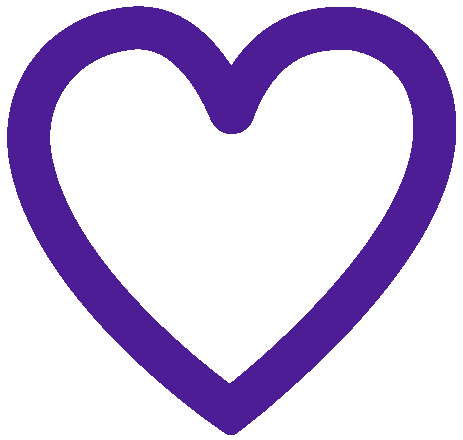
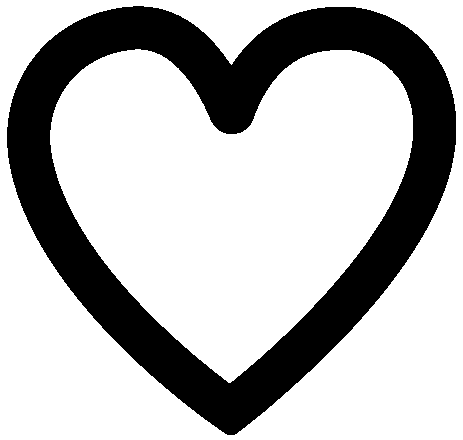
ui change into dark mode

Changed region(s): [[0.0, 0.0, 0.9978, 1.0]]

diff --git a/src/component/header/header.jsx b/src/component/header/header.jsx
@@ -4,7 +4,7 @@ import { Link, useNavigate } from 'react-router-dom'
 import {useSelector} from 'react-redux'
 import  {Logoutbtn}  from '../index';
 import SearchIcon from '@mui/icons-material/Search';
-import cart from "../images/cart.png"
+import cart from "../images/cart1.png"
 import wish from "../images/whishlist1.png"
 import { toast } from 'react-toastify';
 import axios from 'axios';
@@ -95,39 +95,39 @@ function header() {
         
         <div className='w-full py-2 sm:pt-4 pt-1 pl-3 bg-gray-100 flex'>
             
-        <Link to="/"><img src={img}  alt="logo" className='sm:mr-36 mr-24 sm:ml-6 ml-2 sm:mt-4 mt-4 sm:mb-3 mb-2 sm:w-36 w-24'/></Link>
+        <Link to="/"><img src={img}  alt="logo" className='sm:mr-36 mr-24 sm:ml-6 ml-2 sm:mt-4 mt-4 sm:mb-3 mb-2 sm:w-36 w-28'/></Link>
             
-            <input type='text' placeholder='Search here something' onKeyPress={handleKeyPress} value={value} onChange={(e) => setValue(e.target.value)} className='sm:block hidden sm:p-1 p-0 mt-3 sm:w-80 w-24 sm:h-10 h-9 border outline-none sm:pl-3 pl-1 focus:outline-none focus:ring-2 focus:ring-violet-900 focus:border-violet-900'/>
-            <div className='sm:block hidden border h-10 mt-3 border-violet-900'></div>
+            <input type='text' placeholder='Search here something' onKeyPress={handleKeyPress} value={value} onChange={(e) => setValue(e.target.value)} className='sm:block hidden sm:p-1 p-0 mt-3 sm:w-80 w-24 sm:h-10 h-9 border outline-none sm:pl-3 pl-1 focus:outline-none focus:ring-2 focus:ring-black focus:border-black'/>
+            <div className='sm:block hidden border h-10 mt-3 border-black'></div>
             <select
                 id="age-select"
                 value={age}
                 onChange={handleChange}
                 onKeyPress={handleKeyPress}
-                className="sm:block hidden sm:w-auto w-20 h-10 mt-3 border border-gray-300 bg-white py-2 px-3 focus:outline-none focus:ring-2 focus:ring-violet-900 focus:border-violet-900"
+                className="sm:block hidden sm:w-auto w-20 h-10 mt-3 border border-gray-300 bg-white py-2 px-3 focus:outline-none focus:ring-2 focus:ring-black focus:border-black"
             >
-            <option className='text-violet-900' value="">Browse by Category</option>
-            <option className='text-violet-900' value="boards">Arduino Boards</option>
-            <option className='text-violet-900' value="sensors">Sensors</option>
-            <option className='text-violet-900' value="motors">Dc motors</option>
-            <option className='text-violet-900' value="speakers">Buzzers & Speakers</option>
-            <option className='text-violet-900' value="batteries">Batteries</option>
-            <option className='text-violet-900' value="chargers">Chargers</option>
-            <option className='text-violet-900' value="bluthooth">Bluetooth module</option>
-            <option className='text-violet-900' value="capacitors">Capacitors & Transistors</option>
-            <option className='text-violet-900' value="led">LED's</option>
-            <option className='text-violet-900' value="drones">Drones</option>
-            <option className='text-violet-900' value="cars">Rc cars</option>
-            <option className='text-violet-900' value="other">other's</option>
+            <option className='text-black' value="">Browse by Category</option>
+            <option className='text-black' value="boards">Arduino Boards</option>
+            <option className='text-black' value="sensors">Sensors</option>
+            <option className='text-black' value="motors">Dc motors</option>
+            <option className='text-black' value="speakers">Buzzers & Speakers</option>
+            <option className='text-black' value="batteries">Batteries</option>
+            <option className='text-black' value="chargers">Chargers</option>
+            <option className='text-black' value="bluthooth">Bluetooth module</option>
+            <option className='text-black' value="capacitors">Capacitors & Transistors</option>
+            <option className='text-black' value="led">LED's</option>
+            <option className='text-black' value="drones">Drones</option>
+            <option className='text-black' value="cars">Rc cars</option>
+            <option className='text-black' value="other">other's</option>
             </select>
         
-            <button onClick={addtodo} className='mt-3 bg-violet-900 sm:inline-block hidden duration-200 w-11 h-10 rounded-tr-md rounded-br-md '><SearchIcon fontSize="large" color="primary" style={{ padding: '1px', color: 'white' }}/></button>
+            <button onClick={addtodo} className='mt-3 bg-black sm:inline-block hidden duration-200 w-11 h-10 rounded-tr-md rounded-br-md '><SearchIcon fontSize="large" color="primary" style={{ padding: '1px', color: 'white' }}/></button>
             
 
             <ul className='flex ml-auto'>
                     {active && <li  className='sm:flex hidden'>
                         <button onClick={() => navigate("/wishlist")}
-                        className='fancy-underline inline-block sm:mx-8 mx-1 mt-1 sm:px-6 px-3 sm:py-2 py-1 text-violet-900 font-medium sm:text-lg text-base duration-200 rounded-full'
+                        className='fancy-underline inline-block sm:mx-8 mx-1 mt-1 sm:px-6 px-3 sm:py-2 py-1 text-black font-medium sm:text-lg text-base duration-200 rounded-full'
                         >
                             Wishlist
                         </button>
@@ -147,18 +147,18 @@ function header() {
             {active && (
                 <>
                     <li className='sm:mr-0 mr-3 '>
-                        <div className=' absolute z-20 text-red-600 sm:ml-[93px] ml-[25px] sm:mt-1 mt-0 sm:text-xl text-lg'>{post?.length}</div>
+                        <div className=' absolute z-20 text-green-600 sm:ml-[93px] ml-[25px] sm:mt-1 mt-0 sm:text-xl text-lg'>{post?.length}</div>
                         <div className='absolute z-10 text-red-600 rounded-full sm:w-7 w-5 sm:h-7 h-5 border bg-white sm:ml-[85px] ml-[21px] sm:mt-1 mt-1'></div>
                         <button  onClick={() => navigate("/cart")}
-                        className=' fancy-underline inline-block sm:mx-10 mx-1 sm:mr-20 mr-2 sm:mt-2 mt-1 sm:px-6  py-2 text-blue-600  duration-200 rounded-2xl sm:w-auto w-6'
+                        className=' fancy-underline inline-block sm:mx-10 mx-1 sm:mr-20 mr-2 sm:mt-2 mt-1 sm:px-6  py-2 text-blue-600  duration-200 rounded-2xl sm:w-auto w-10'
                         >
-                            <img src={cart} className='sm:w-8 '/>
+                            <img src={cart} className='sm:w-10 '/>
                         </button>
                     </li>
                     <div className='sm:mr-14 mr-0 text-base sm:ml-4 ml-2'> 
-                      {userData && (<p className='sm:flex hidden text-red-500 font-medium sm:text-lg text-sm'>Hey {userData?.fullName}</p>)}
+                      {userData && (<p className='sm:flex hidden text-green-500 font-medium sm:text-lg text-sm'>Hey {userData?.fullName}</p>)}
                       <div className="dropdown">
-                        <button className="sm:flex hidden dropbtn text-violet-900 font-semibold">My account&nbsp;&#717;&nbsp;&nbsp;&nbsp;&nbsp;&nbsp;&nbsp;&nbsp;&nbsp;&nbsp;&nbsp;&nbsp;&nbsp;</button>
+                        <button className="sm:flex hidden dropbtn text-black font-semibold">My account&nbsp;&#717;&nbsp;&nbsp;&nbsp;&nbsp;&nbsp;&nbsp;&nbsp;&nbsp;&nbsp;&nbsp;&nbsp;&nbsp;</button>
                         <button className="sm:hidden sm:mr-auto mr-5 flex dropbtn text-violet-900 font-semibold">My account&nbsp;&#717;</button>
                         <div className="dropdown-content sm:w-auto ">
                           <Link to="/orderpage" className='sm:text-base text-sm'>My orders</Link>
@@ -177,31 +177,31 @@ function header() {
         </div>
         <div className='h-auto sm:hidden  flex'>
             <div className='flex mx-auto py-2'>
-            <input type='text' placeholder='Search here something' onKeyPress={handleKeyPress} value={value} onChange={(e) => setValue(e.target.value)} className='p-0 w-36 h-9 border outline-none pl-1 focus:outline-none focus:ring-2 focus:ring-violet-900 focus:border-violet-900'/>
-            <div className='border h-9 border-violet-900'></div>
+            <input type='text' placeholder='Search here something' onKeyPress={handleKeyPress} value={value} onChange={(e) => setValue(e.target.value)} className='p-0 w-36 h-9 border outline-none pl-1 focus:outline-none focus:ring-2 focus:ring-black focus:border-black'/>
+            <div className='border h-9 border-black'></div>
             <select
                 id="age-select"
                 value={age}
                 onChange={handleChange}
                 onKeyPress={handleKeyPress}
-                className="block w-28 h-9 border border-gray-300 bg-white py-2 px-1 focus:outline-none focus:ring-2 focus:ring-violet-900 focus:border-violet-900"
+                className="block w-28 h-9 border border-gray-300 bg-white py-2 px-1 focus:outline-none focus:ring-2 focus:ring-black focus:border-black"
             >
-            <option className='text-violet-900' value="">Browse by Category</option>
-            <option className='text-violet-900' value="boards">Arduino Boards</option>
-            <option className='text-violet-900' value="sensors">Sensors</option>
-            <option className='text-violet-900' value="motors">Dc motors</option>
-            <option className='text-violet-900' value="speakers">Buzzers & Speakers</option>
-            <option className='text-violet-900' value="batteries">Batteries</option>
-            <option className='text-violet-900' value="chargers">Chargers</option>
-            <option className='text-violet-900' value="bluthooth">Bluetooth module</option>
-            <option className='text-violet-900' value="capacitors">Capacitors & Transistors</option>
-            <option className='text-violet-900' value="led">LED's</option>
-            <option className='text-violet-900' value="drones">Drones</option>
-            <option className='text-violet-900' value="cars">Rc cars</option>
-            <option className='text-violet-900' value="other">other's</option>
+            <option className='text-black' value="">Browse by Category</option>
+            <option className='text-black' value="boards">Arduino Boards</option>
+            <option className='text-black' value="sensors">Sensors</option>
+            <option className='text-black' value="motors">Dc motors</option>
+            <option className='text-black' value="speakers">Buzzers & Speakers</option>
+            <option className='text-black' value="batteries">Batteries</option>
+            <option className='text-black' value="chargers">Chargers</option>
+            <option className='text-black' value="bluthooth">Bluetooth module</option>
+            <option className='text-black' value="capacitors">Capacitors & Transistors</option>
+            <option className='text-black' value="led">LED's</option>
+            <option className='text-black' value="drones">Drones</option>
+            <option className='text-black' value="cars">Rc cars</option>
+            <option className='text-black' value="other">other's</option>
             </select>
         
-            <button onClick={addtodo} className='bg-violet-900 inline-block duration-200 w-9 h-9 rounded-tr-md rounded-br-md '><SearchIcon fontSize="medium" color="primary" style={{ padding: '1px', color: 'white' }}/></button>
+            <button onClick={addtodo} className='bg-black inline-block duration-200 w-9 h-9 rounded-tr-md rounded-br-md '><SearchIcon fontSize="medium" color="primary" style={{ padding: '1px', color: 'white' }}/></button>
             </div>
         </div>
     </>

diff --git a/src/component/postcard.jsx b/src/component/postcard.jsx
@@ -10,6 +10,8 @@ import axios from 'axios';
 import conf from "./conf/conf";
 import imgcart from "./images/cart.png"
 
+import cart from "./images/cart1.png"
+
 
 function postcard({ _id, title, image, price, description}) {
   // console.log(image);
@@ -95,19 +97,20 @@ function postcard({ _id, title, image, price, description}) {
   }
 
   return (
-      <div className='w-full bg-white sm:rounded-md rounded-none sm:p-4 p-0 border'>
-        <button className='sm:ml-60 ml-[140px] mt-4' onClick={() => wish()}><img src={like? img1 : img} className='w-5'/></button>
+      <div className='w-full bg-white sm:rounded-md rounded-none sm:p-4 p-0 border sm:mt-0 mt-4'>
+        <button className='sm:ml-60 ml-[140px] my-1' onClick={() => wish()}><img src={like? img1 : img} className='w-5'/></button>
         <Link to={`/post/${_id}`}>
-        <div id='postcard' className='w-full justify-center mb-7 overflow-hidden sm:max-h-56 max-h-36'>
-          <img src={image[images]} onMouseOver={() => handleMouseover()} onMouseOut={() => handleMouseout()} alt={title} className='rounded-lg w-full sm:h-56 h-36'></img>
+        <div id='postcard' className='w-full justify-center mb-7 overflow-hidden sm:max-h-56 max-h-36 '>
+          <img src={image[images]} onMouseOver={() => handleMouseover()} onMouseOut={() => handleMouseout()} alt={title} className='rounded-lg sm:h-48 h-36  mx-auto mt-4'></img>
         </div>
-        <h2 className='sm:text-xl text-base sm:px-0 px-2 text-red-600 mb-2 font-semibold'>{title.length > 25? (<span>{title.slice(0, 25)}...</span>) : (<span>{title}</span>)}</h2>
-        <h2 className='mb-2 sm:flex hidden'>{description.length > 25? (<span>{description.slice(0, 28)}...</span>) : (<span>{description}</span>)}</h2>
-        <h2 className='text-xl font-semibold sm:px-0 px-2'>₹ {price}</h2>
+        <h2 className='sm:text-lg text-base sm:px-0 px-2 text-gray-800 mb-2 font-semibold'>{title.length > 25? (<span>{title.slice(0, 25)}...</span>) : (<span>{title}</span>)}</h2>
+        {/* <h2 className='mb-2 sm:flex hidden'>{description.length > 25? (<span>{description.slice(0, 28)}...</span>) : (<span>{description}</span>)}</h2> */}
+        <h2 className='text-lg sm:px-0 px-2 font-light'>₹ {price}</h2>
         </Link>
-        <div  className=' mt-4 flex sm:mb-0 mb-2'>
-          <button onClick={() => onclick()} className=' sm:bg-green-600 bg-white transform hover:scale-110 duration-300 text-white sm:px-6 px-2 py-1 mr-1 sm:mx-0 mx-2'><p className='sm:flex hidden'>add to cart</p><img src={imgcart} className='sm:hidden flex w-6 h-6' /></button>
-          <button onClick={checkActive} className='sm:bg-violet-900 bg-green-500 transform hover:scale-110 duration-300 text-white ml-2 sm:px-8 px-4 py-1 '>Buy now</button>
+        <hr className='mt-2 border border-gray-200' />
+        <div  className=' mt-4 flex sm:mb-0 mb-2 '>
+            <button onClick={() => onclick()} className=' bg-white transform hover:scale-110 duration-300 text-white w-1/4 '><img src={cart} className=' w-8 h-9  mx-auto' /></button>
+            <button onClick={checkActive} className='rounded-r-none rounded-lg bg-black  transform hover:scale-105 duration-300 text-white sm:px-8 px-4 py-[0px] sm:ml-9 ml-4 sm:w-36 w-24'>Buy now</button>
         </div>
       </div>
   )

diff --git a/src/component/postcard1.jsx b/src/component/postcard1.jsx
@@ -10,6 +10,8 @@ import { toast } from 'react-toastify';
 import { LoginPopup } from '../component'
 import conf from "./conf/conf";
 
+import img2 from "./images/cart2.png"
+
 
 function postcard1({image, title, description, price, _id }) {
 
@@ -93,16 +95,17 @@ function postcard1({image, title, description, price, _id }) {
 
 
   return (
-    <div>
+    <div className=' bg-white'>
         
-        <div className='border h-54 overflow-hidden'>
+        <div className=' h-54 overflow-hidden'>
           <button className='ml-56' onClick={() => wish()}><img src={like? img1 : img} className='w-5 mt-2'/></button>
           <Link to={`/post/${_id}`}><img className='mx-auto w-52 h-52' src={image[images]} onMouseOver={() => handleMouseover()} onMouseOut={() => handleMouseout()}/></Link>
         </div>
-        <Link to={`/post/${_id}`}><div className='mx-5 mt-3 text-lg font-semibold'>{title.length > 25? (<span>{title.slice(0, 25)}...</span>) : (<span>{title}</span>)}</div>
-        <div className='mx-5 mr-12 mt-1'>{description.length > 25? (<span>{description.slice(0, 25)}...</span>) : (<span>{description}</span>)}</div></Link>
-        <p className='mx-5 text-xl text-red-600 mt-3 mb-5'>₹ {price}</p>
-        <button onClick={() => onclick()} className={`mx-5 w-52 bg-green-500 hover:bg-green-600 mb-2 h-11 text-white text-center border font-semibold transition-transform ${size? 'transform scale-90' : ''} duration-200`}>Add to Cart</button>
+        <Link to={`/post/${_id}`}><div className='mx-5 mt-4 text-lg font-semibold'>{title.length > 22? (<span>{title.slice(0, 22)}...</span>) : (<span>{title}</span>)}</div>
+        {/* <div className='mx-5 mr-12 mt-1'>{description.length > 25? (<span>{description.slice(0, 25)}...</span>) : (<span>{description}</span>)}</div> */}
+        </Link>
+        <p className='mx-5 text-xl text-black mt-3 mb-5 font-light'>₹ {price}</p>
+        <button onClick={() => onclick()} className={`flex rounded-t-none rounded-2xl mx-5 w-52 bg-gray-900 hover:bg-black mb-2 h-11 text-white text-center  font-semibold transition-transform ${size? 'transform scale-90' : ''} duration-200`}><img src={img2} className='w-8 h-8  my-auto ml-8 mr-2' /><span className=' my-auto'>Add to Cart</span></button>
     </div>
   )
 }

diff --git a/src/component/wishlist.jsx b/src/component/wishlist.jsx
@@ -77,7 +77,7 @@ function wishlist({userId, product_details, createdAt, _id}) {
             </div>
             <div className=' flex justify-between'>
               <div className='  sm:h-20 h-auto w-40'>
-                <button onClick={() => onclick()} className='sm:mt-6 mt-1 w-28 ml-6 bg-gray-50 text-green-500 py-[2px] font-medium border'>Add to Cart</button>
+                <button onClick={() => onclick()} className='sm:mt-6 mt-1 w-28 ml-6 bg-gray-50 text-black py-[2px] font-medium border'>Add to Cart</button>
               </div> 
               <div className=' sm:h-20 h-auto sm:w-24 w-16 sm:mr-auto mr-2 text-center'>
                 <button onClick={() => delt()} className=' text-4xl mt-5'>×</button>

diff --git a/src/page/allpost.jsx b/src/page/allpost.jsx
@@ -111,7 +111,7 @@ const handleNextSlide = () => {
       <LoginPopup open={active}/>
       <div className='lide w-32 absolute z-10'>
         {slides.map((slide) => (
-          <button key={slide.id} onClick={() => setCurrentSlideIndex(slide.id -1)}  className={`sm:w-5 w-4 sm:h-5 h-4 border border-white  rounded-2xl ml-2  ${currentSlideIndex=== (slide.id - 1) ? 'bg-white' : 'bg-gray-400'}`}></button>
+          <button key={slide.id} onClick={() => setCurrentSlideIndex(slide.id -1)}  className={`sm:w-5 w-4 sm:h-5 h-4 border border-black  rounded-2xl ml-2  ${currentSlideIndex=== (slide.id - 1) ? 'bg-black' : 'bg-white'}`}></button>
         ))}
       </div>
       

diff --git a/src/page/adress.jsx b/src/page/adress.jsx
@@ -75,7 +75,7 @@ function adress() {
   return (
     <div id='width' className='mx-auto'>
         <div className=' flex justify-center'>
-            <button onClick={openDialog} className='w-96 text-2xl font-semibold bg-green-500 pb-2 pt-2 rounded-md my-8 text-white'>+ Add new  address</button>
+            <button onClick={openDialog} className='w-96 text-2xl font-semibold bg-green-500 pb-2 pt-2 rounded-xl my-8 text-white rounded-t-none'>+ Add new  address</button>
         </div>
         <Dialog open={isDialogOpen} onClose={closeDialog}>
           <DialogTitle>Enter Here your  Address</DialogTitle>
